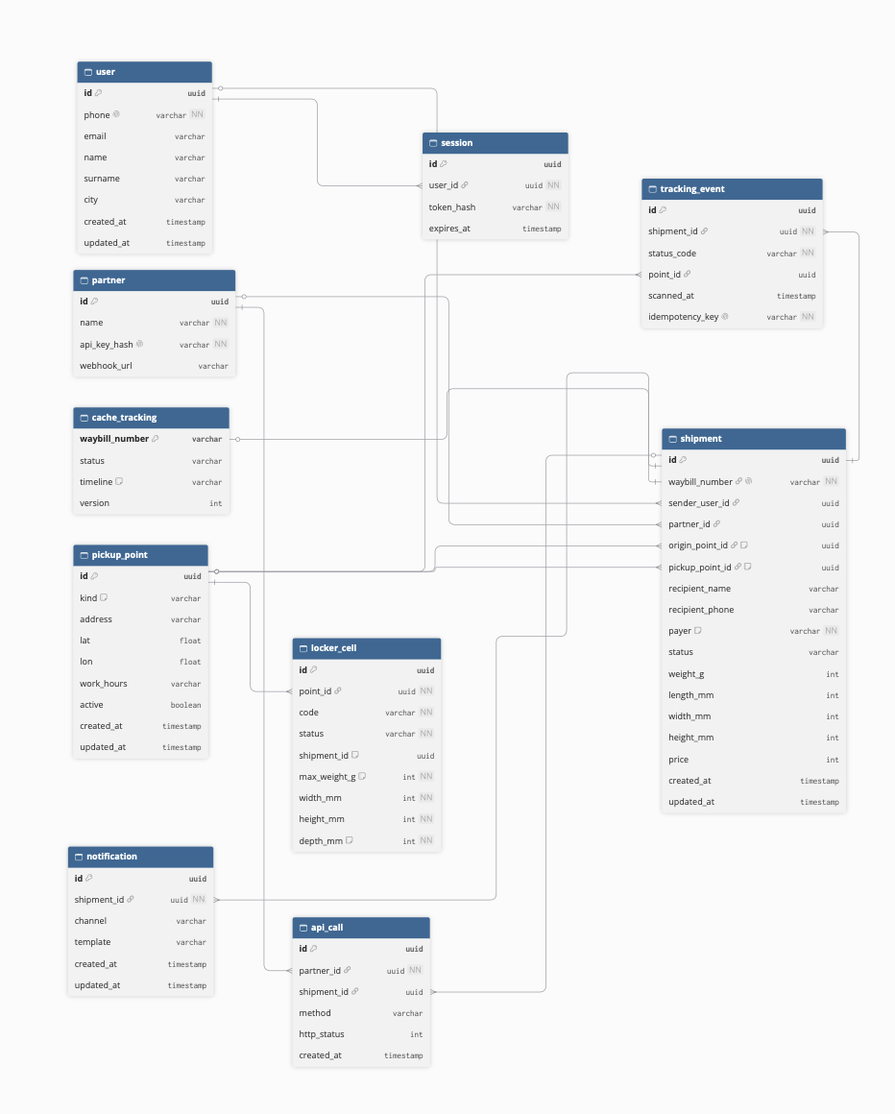
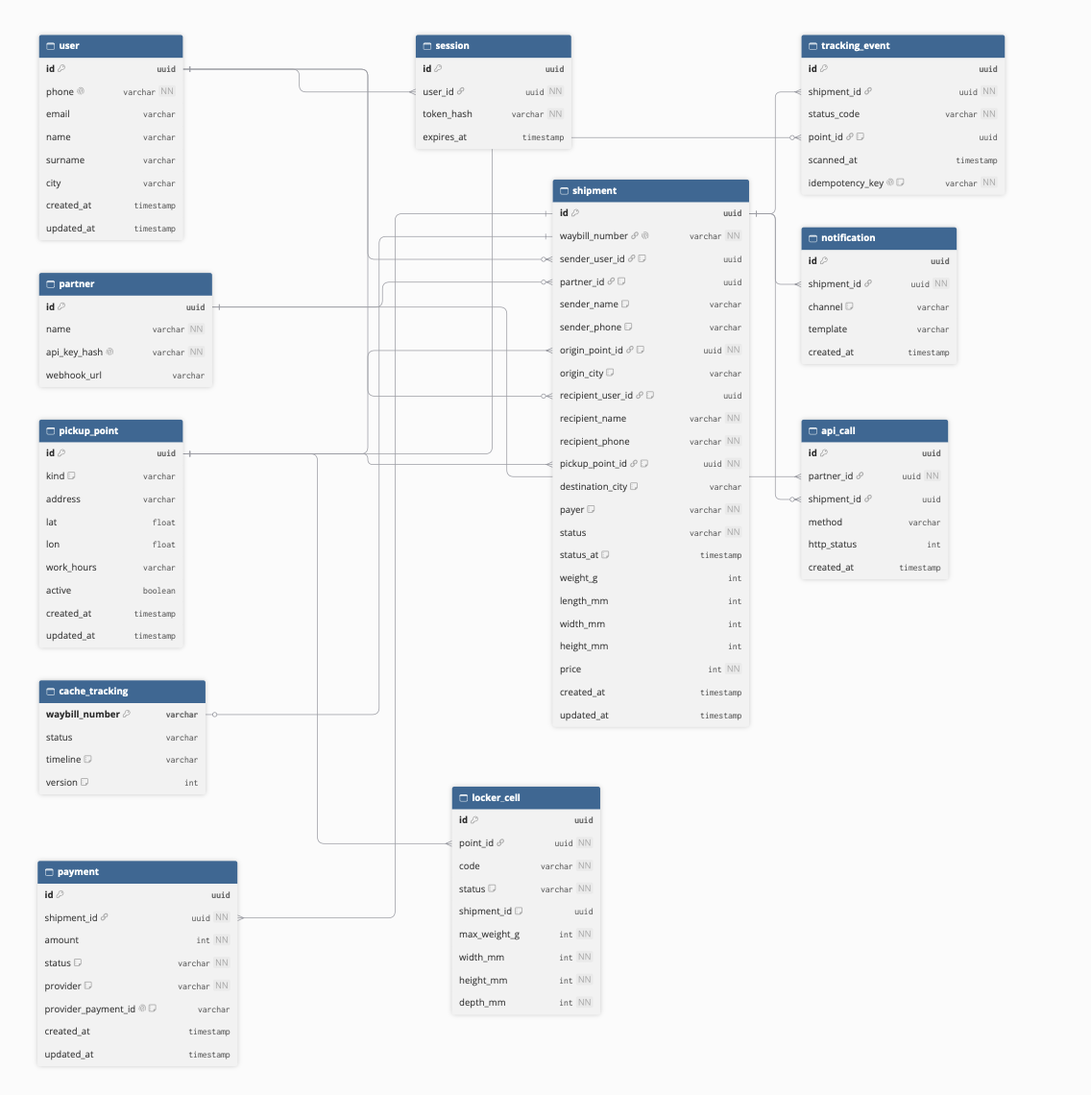
updated task 7

diff --git a/README.md b/README.md
@@ -10,7 +10,8 @@
 4. [Локальная балансировка нагрузки](#глава-4-локальная-балансировка-нагрузки)  
 5. [Логическая схема БД](#глава-5-логическая-схема-бд)  
 6. [Физическая схема БД](#глава-6-физическая-схема-БД-и-инфраструктура-хранения)  
-7. [Источники](#источники)  
+7. [Алгоритмы](#глава-7-алгоритмы)  
+8. [Источники](#источники)  
 
 ---
 
@@ -177,7 +178,7 @@
 - **Выгрузка справочника ПВЗ (0,20):** более 200 тыс. магазинов-партнёров [4] раз в сутки скачивают список ПВЗ. `200 000 / 1 000 000 = 0,20`.
 - **Добавление и изменение ПВЗ (0,0003):** *Допущение:* карточка точки (телефон, режим) обновляется в среднем раз в месяц. `8 800 × 12 / 365 = 289` правок в сутки, в таблице округлено до 300, то есть 0,0003 млн.
 
-**Про две строки с маленьким RPS.** Добавление ПВЗ даёт меньше 0,01 RPS и на выбор железа не влияет, но строку нельзя убирать: справочник ПВЗ читают все остальные контуры (карта, оформление, выгрузка партнёрам, маршрутизация посылок), поэтому запись в него должна быть строго консистентной и обязана сбрасывать кеши карты и партнёрских выгрузок. То же с ячейками: суммарно телеметрия и чтения дают `2,53 + 0,40 = 2,93` млн запросов в сутки и `35 + 18 = 53` RPS в пике, и это отдельное быстрое хранилище состояния, а не основная СУБД.
+**Про две строки с маленьким RPS.** Добавление ПВЗ даёт меньше 0,01 RPS и на выбор железа не влияет, но строку нельзя убирать: справочник ПВЗ читают все остальные контуры (карта, оформление, выгрузка партнёрам, маршрутизация посылок), поэтому запись в него должна быть строго консистентной и обязана сбрасывать кеши карты и партнёрских выгрузок. То же с ячейками: `2,53 + 0,40 = 2,93` млн запросов в сутки и `35 + 18 = 53` RPS в пике. Таблица — десятки мегабайт и обновляется в одной транзакции с накладной (глава 6).
 
 ### 2.4. Хранение данных
 | Тип данных | шт./мес | Размер записи | ГБ/мес | Срок хранения |
@@ -219,7 +220,7 @@
 Сырые данные: 139 ГБ/мес.  
 *Допущение ×1,6:* вторичные индексы и WAL примерно +60% к сырому объёму. Отдельного замера доли индексов нет. `139 × 1,6 = 222 ГБ/мес`.  
 Три копии — мастер и две реплики, как на схеме главы 4: `222 × 3 = 666 ГБ/мес ≈ 0,67 ТБ/мес`.  
-За горизонт хранения структурные данные: `0,67 × 36 ≈ 24 ТБ` и `0,67 × 60 ≈ 40 ТБ`, отсюда вилка **24–40 ТБ**. Фотофиксация хранится в объектном хранилище (S3) и не нагружает основную СУБД.
+Верхняя оценка, если хранить весь поток 36–60 месяцев в трёх копиях: `0,67 × 36 ≈ 24 ТБ` … `0,67 × 60 ≈ 40 ТБ`. По таблицам главы 6 один PostgreSQL — **5,5 ТБ**, три копии — **16,5 ТБ**. Фото в S3 в эту сумму не входят.
 
 **Средний размер хранилища на пользователя:** `139 ГБ/мес × 36 мес / 9,85 млн MAU = 508 КБ ≈ 0,5 МБ` структурных данных. Фото: `1 281 ГБ/мес × 12 мес / 9,85 млн ≈ 1,6 МБ`.
 
@@ -408,140 +409,229 @@ flowchart TD
 | `session` | Токены устройств. |
 | `partner` | Магазины: API-ключи, вебхуки. |
 | `pickup_point` | Справочник ПВЗ и постаматов. |
-| `locker_cell` | Ячейки постаматов: занятость, предел по весу и три габарита проёма. |
-| `shipment` | Накладная: стороны, ПВЗ сдачи и выдачи, кто платит, статус, вес и габариты, тариф. |
-| `tracking_event` | События перемещения посылки. |
+| `locker_cell` | Ячейка постамата: `free`, `reserved`, `occupied`, предел по весу и три габарита. |
+| `shipment` | Накладная: кто отправил и кто получает, пункт сдачи и пункт выдачи, города, кто платит, статус, вес, габариты, тариф. |
+| `payment` | Оплата: сумма, статус, провайдер, `provider_payment_id`. |
+| `tracking_event` | Событие перемещения. Точка скана — пункт или склад. |
 | `notification` | Журнал push/SMS. |
 | `api_call` | Журнал вызовов партнёрского API. |
-| `cache_tracking` | Готовый JSON трекинга для публичной страницы. |
+| `cache_tracking` | Готовая лента по номеру накладной. Поле `version`, чтобы два обновления не затёрли друг друга. |
+| `scan_buffer` | Входящий буфер скана до записи в `tracking_event`. |
+| `webhook_buffer` | Исходящий буфер вебхука до подтверждения магазином. |
+| `photo` | Файл фотофиксации приёма или выдачи. |
 
-### 5.3. Характеристики нагрузки и распределение данных
+На картинке выше основные таблицы. Очереди и файлы:
 
-Ниже приведены расчетные метрики, обосновывающие выбор типов хранения и стратегий шардирования. QPS рассчитаны исходя из пиковых значений главы 2.
+```mermaid
+flowchart LR
+    S["shipment"]
+    SB["scan_buffer<br/>idempotency_key<br/>waybill_number<br/>status_code<br/>point_id<br/>scanned_at"]
+    WB["webhook_buffer<br/>partner_id<br/>shipment_id<br/>event_code<br/>payload<br/>attempts"]
+    PH["photo<br/>shipment_id<br/>kind<br/>object_key<br/>size_bytes"]
+    PAY["payment<br/>shipment_id<br/>amount<br/>status<br/>provider<br/>provider_payment_id<br/>created_at"]
 
+    SB -->|waybill_number| S
+    WB -->|shipment_id| S
+    PH -->|shipment_id| S
+    PAY -->|shipment_id| S
+```
+
+Пункт сдачи и пункт выдачи в накладной обязательны. Скан на складе, которого нет в справочнике пунктов, пишется с пустым `point_id`.
+
+### 5.3. Объём, QPS, консистентность, ключи
+
+Объём — за весь срок хранения. Очередь скана и очередь вебхука живут сутки. QPS — пик именно этой таблицы, не весь метод из таблицы 2.3.
+
+| Сущность | Строк | Байт строки | Объём | R / W | Консистентность | Ключ |
+| :--- | ---: | ---: | ---: | ---: | :--- | :--- |
+| `user` | 18 млн | 0,5 КБ | 9 ГБ | 62 / <1 | строгая | `phone` |
+| `session` | 1,35 млн | 0,3 КБ | 0,4 ГБ | 300 / 124 | ключ есть или его нет | токен |
+| `partner` | 200 тыс. | 1 КБ | 0,2 ГБ | <1 / <0,1 | строгая | `api_key_hash` |
+| `pickup_point` | 8 800 | 2 КБ | 0,02 ГБ | <1 / <0,1 | строгая | `id`, выборка по прямоугольнику карты |
+| `locker_cell` | 176 тыс. | 0,2 КБ | 0,04 ГБ | 18 / 35 | строгая: строка ячейки блокируется вместе с накладной | `point_id` |
+| `shipment` | 615 млн | 4 КБ | 2 460 ГБ | 62 / 267 | строгая | `recipient_phone`, `waybill_number`, `sender_user_id`, `recipient_user_id` |
+| `payment` | 91 млн | 0,2 КБ | 18 ГБ | — / 5 | строгая, повтор оплаты с тем же номером шлюза не создаёт вторую строку | `shipment_id`, `provider_payment_id` |
+| `tracking_event` | 5,46 млрд | 0,4 КБ | 2 183 ГБ | 3 / 234 | повтор скана не создаёт второе событие | `shipment_id` |
+| `notification` | 450 млн | 0,5 КБ | 225 ГБ | ~0 / 70 | повтор не создаёт вторую запись | `shipment_id` |
+| `api_call` | 380 млн | 0,25 КБ | 95 ГБ | — / 146 | только добавление | `partner_id`, `created_at` |
+| `cache_tracking` | ~10 млн | 5 КБ | 50 ГБ | 124 / 234 | лента может отстать, пока её собирают заново | `waybill_number` |
+| `scan_buffer` | 5,1 млн | 0,4 КБ | 2 ГБ | 234 / 234 | повтор с тем же ключом не обрабатывается второй раз | `idempotency_key` |
+| `webhook_buffer` | 1,4 млн | 0,5 КБ | 0,7 ГБ | 64 / 64 | повторная отправка допустима | `partner_id`, `shipment_id` |
+| `photo` | 61 млн | 250 КБ | 15,3 ТБ | — / 8 | файл доступен после успешной загрузки | `shipment_id`, `kind` |
+
+Откуда QPS, если это не прямой пик строки таблицы 2.3:
+
+- `user` 62: `1,35 млн / 86 400 × 3,96`.
+- `session` 300 / 124: чтение `186 + 86 + 18 + 14 = 304`; запись — старт сессии, 124.
+- `shipment` 62 / 267: список `186 / 3 = 62`; запись — 234 смены статуса и `14 + 19` созданий. Карточку по номеру забирает `cache_tracking`.
+- `tracking_event` 3 / 234: *допущение*, промах кэша `62 × 0,05`. Запись — сканы, 234.
+- `cache_tracking` 124 / 234: чтение `186 × 2 / 3`. Запись делает фоновая задача из `scan_buffer`, не приём скана на терминале.
+- `payment` 5: пик оформления 14, в базу пишутся два шага из шести — сессия и подтверждение. `14 × 2 / 6 ≈ 5`. Строк: `50,5 тыс./сут × 30 × 60 = 91 млн`, 0,2 КБ — допущение. Срок как у накладной, 60 месяцев.
+- `scan_buffer` 234 и `webhook_buffer` 64 — пики приёма сканов и исходящих вебхуков. Чтение равно записи: фоновая задача забирает строку в том же темпе.
+- `photo` 8 — пик загрузки из раздела 2.5.
+- `api_call` 146: `60 + 64 + 19 + 3`.
+
+По ключам нагрузка ровная. Новых накладных 337 тыс. в сутки, у телефона одна-две посылки в пути (раздел 1.4). Скан и лента относятся к своей накладной, 15 событий на посылку. Постамат шлёт один отчёт в минуту на точку.
+
+Сумма диска — в разделе 6.6. `scan_buffer`: `337 тыс. × 15 = 5,1 млн` строк за сутки. `webhook_buffer`: `276 тыс. × 5 = 1,4 млн`. Размер строки вебхука 0,5 КБ — допущение.
 
 ---
 
 ## Глава 6. Физическая схема БД и инфраструктура хранения
 
-### 6.1. Схема таблиц и связей
+### 6.1. Схема размещения
+
+Структурные таблицы — один PostgreSQL. В памяти должно держаться 81 ГБ при 128 ГБ RAM, на диске 5,5 ТБ при диске 8 ТБ. Пик записи `234 + 234 + 14 + 19 + 70 ≈ 600` строк/с. Самый большой индекс, по которому ищут постоянно, — телефон получателя и дата, 22 ГБ. Запас: `128 − 81 = 47 ГБ` памяти и `8 − 5,5 = 2,5 ТБ` диска. Пока этот индекс влезает в память одного сервера, таблицу по серверам не делим.
+
+Структуру таблиц меняем на копии и потом переключаемся на неё. Индексы старше 6 месяцев лежат на обычных дисках: их почти не читают.
+
+Поля — схема 5.1. Месячная часть `tracking_event` лежит на том же сервере.
 
 ```mermaid
-flowchart TD
-    subgraph PG [PostgreSQL OLTP]
-        U["user<br/>PK: id<br/>IDX: phone<br/>Shard: hash"]
-        P["partner<br/>PK: id<br/>IDX: api_key<br/>Shard: hash"]
-        PP["pickup_point<br/>PK: id<br/>IDX: lat, lon<br/>Shard: hash"]
-        LC["locker_cell<br/>PK: id<br/>IDX: point_id<br/>Shard: point_id"]
-        S["shipment<br/>PK: id<br/>IDX: waybill<br/>Shard: hash<br/>Part: created_at"]
-        TE["tracking_event<br/>PK: id<br/>IDX: ship_id, scanned_at<br/>Shard: ship_id<br/>Part: date"]
-        N["notification<br/>PK: id<br/>IDX: ship_id<br/>Shard: ship_id"]
+flowchart LR
+    subgraph PG ["PostgreSQL, Москва, основной"]
+        U["user<br/>уникальный phone"]
+        S["shipment<br/>уникальный номер<br/>телефон получателя + дата"]
+        LC["locker_cell<br/>по пункту"]
+        TE["tracking_event<br/>по месяцам<br/>уникальный ключ скана и время"]
+        PAY["payment<br/>уникальный номер оплаты"]
+        SB["scan_buffer<br/>по суткам<br/>уникальный ключ скана и дата скана"]
     end
 
-    subgraph RD [Redis Cluster]
-        SE["session<br/>PK: id<br/>TTL: expires_at"]
-        CT["cache_tracking<br/>PK: waybill<br/>JSON: timeline"]
-    end
+    U --> S
+    S --> TE
+    S --> PAY
+    S --> LC
+    S --> SB
 
-    subgraph CH [ClickHouse OLAP]
-        AC["api_call<br/>PK: id<br/>Sort: partner_id, created_at"]
-    end
+    SYN["копия без задержки, Москва"]
+    GEO["копия с задержкой, Новосибирск"]
+    KZ["PostgreSQL, Алматы<br/>данные Казахстана"]
+    RD["Redis<br/>сессия и лента"]
+    S3["S3<br/>фото"]
 
-    PG_R["PostgreSQL Replicas"]
-    
-    PG -->|Sync Replication| PG_R
-    PG -.->|Async Cache Update| RD
-    PG -.->|Async Log Insert| CH
+    PG -->|сразу| SYN
+    PG -->|журнал| GEO
+    PG -.-> RD
+    S -.-> S3
 ```
 
-### 6.2. Описание таблиц, выбор СУБД и обоснование метрик
+### 6.2. Выбор СУБД
 
-Все значения QPS и размеров выведены из пиковых нагрузок таблицы 2.3 с учетом коэффициентов пика (K=3.96 для пользователей, K=4.0 для операций, K=6.0 для API) и доли промахов кэша. 
+Ячейка, накладная и событие сохраняются вместе. Искать нужно по телефону, номеру накладной и номеру посылки. Для этого берём PostgreSQL: несколько индексов, в том числе только по заполненным строкам, деление больших таблиц по времени и копия в другом городе. Журнал API, 95 ГБ, лежит там же.
 
-| Сущность | СУБД | Размер | Нагрузка (R / W QPS) | Консистентность | Индексы и Денормализация | Шардирование, резервирование и обоснование (ссылка на Гл. 2) |
-| :--- | :--- | :---: | :---: | :--- | :--- | :--- |
-| **user** | PostgreSQL | 0.5 КБ | 150 / 20 | Строгая | **Индекс:** btree по `phone`.<br>**Денорм.:** нет. | **Шард:** `hash(id)`. **Резерв:** 1 мастер + 2 реплики.<br>*Обоснование:* R: ~10% DAU запрашивают профиль. W: 1-2% DAU (регистрации). |
-| **session** | Redis Cluster | 0.3 КБ | 400 / 50 | Строгая | **Индекс:** встроенный хэш-ключ.<br>**Денорм.:** нет. | **Шард:** встроенный Redis. **Резерв:** Master + Replica. TTL.<br>*Обоснование:* R: валидация каждого API-запроса. W: создание сессии при входе. |
-| **partner** | PostgreSQL | 1.0 КБ | 30 / 1 | Строгая | **Индекс:** btree по `api_key_hash`.<br>**Денорм.:** нет. | **Шард:** `hash(id)`. **Резерв:** 1 мастер + 2 реплики.<br>*Обоснование:* R: только промахи кэша Redis. W: регистрация партнеров (крайне редко). |
-| **pickup_point** | PostgreSQL | 2.0 КБ | 200 / <1 | Строгая | **Индекс:** gist по `lat/lon` (PostGIS).<br>**Денорм.:** нет. | **Шард:** `hash(id)`. **Резерв:** 1 мастер + 2 реплики.<br>*Обоснование:* R: пики карты (86) + проверка ячеек (18). W: админ. правки (<0.1). |
-| **locker_cell** | PostgreSQL | 0.2 КБ | 50 / 40 | Строгая, атомарная | **Индекс:** btree по `point_id`.<br>**Денорм.:** нет. | **Шард:** `hash(point_id)` (локальность данных постамата).<br>*Обоснование:* R/W: проверка и обновление статуса. Пик телеметрии (35) + бронирование. |
-| **shipment** | PostgreSQL | 4.0 КБ | 250 / 30 | Строгая | **Индекс:** btree по `waybill_number`.<br>**Денорм.:** дублирование `status` и контактов получателя для вывода списков без тяжелых JOIN. | **Шард:** `hash(waybill_number)`. **Партиции:** по `created_at`. **Резерв:** 1 мастер + 2 синхронные реплики.<br>*Обоснование:* R: просмотр карточки (186). W: создание UI (14) + API (19). |
-| **tracking_event** | PostgreSQL (партицированная) | 0.4 КБ | 300 / 250 | Идемпотентная, append-only | **Индексы:** составной btree (`shipment_id`, `scanned_at`), уникальный по `idempotency_key`.<br>**Денорм.:** нет. | **Шард:** `hash(shipment_id)`. **Партиции:** по дням.<br>*Обоснование:* W: прием сканов ТСД (234). R: построение ленты (промахи кэша `cache_tracking`). |
-| **notification** | PostgreSQL | 0.5 КБ | 10 / 70 | Идемпотентная | **Индекс:** btree по `shipment_id`.<br>**Денорм.:** нет. | **Шард:** `hash(shipment_id)`.<br>*Обоснование:* W: отправка Push/SMS (70). R: только административная отладка. |
-| **api_call** | ClickHouse | 0.25 КБ | 20 / 60 | Идемпотентная, append-only | **Индекс:** первичный ключ (сортировка) по (`partner_id`, `created_at`).<br>**Денорм.:** нет. | **Шард:** Distributed таблица. **Резерв:** ReplicatedMergeTree.<br>*Обоснование:* W: логирование вызовов API (пики опроса и вебхуков ~60-64). R: аналитика. |
-| **cache_tracking** | Redis Cluster | 5.0 КБ | 200 / 250 | Согласованная в конечном счете | **Индекс:** встроенный хэш-ключ.<br>**Денорм.:** готовый JSON ленты для исключения сборки данных на лету. | **Шард:** встроенный Redis. **Резерв:** Master + Replica.<br>*Обоснование:* R: публичный трекинг (186). W: асинхронное обновление при каждом событии в `tracking_event`. |
+Сессия и готовая лента — Redis, 50 ГБ на сервере с 96 ГБ памяти. Фото — S3, 15,3 ТБ. Телефон кладёт файл по прямой ссылке, серверы приложений файл не принимают.
 
-**Общая формула расчета QPS:**  
-`Пиковый QPS = (Суточный объем операций из табл. 2.3 / 86 400) × Коэффициент пика (K) × Коэффициент нагрузки на конкретную таблицу (доля запросов, доходящих до БД после кэша)`.
+### 6.3. Таблицы
 
-**Обоснование размеров записей:**  
-Рассчитаны как сумма размеров типов данных полей (например, `uuid` = 16 байт, `varchar` ~20-50 байт, `timestamp` = 8 байт) с учетом накладных расходов СУБД.
+QPS — таблица 5.3. Таблицы по серверам не делятся. У PostgreSQL копия без задержки в Москве и копия с задержкой в Новосибирске. Алматы — отдельная база для граждан Казахстана (раздел 6.5).
 
+| Таблица | СУБД | Индекс | Копия |
+| :--- | :--- | :--- | :--- |
+| `user` | PostgreSQL | уникальный `phone`, индекс `email` | Москва и Новосибирск |
+| `partner` | PostgreSQL | уникальный `api_key_hash` | Москва и Новосибирск |
+| `pickup_point` | PostgreSQL | координаты `lat, lon` | Москва и Новосибирск |
+| `locker_cell` | PostgreSQL | `point_id`, отдельно свободные ячейки | Москва и Новосибирск |
+| `shipment` | PostgreSQL | уникальный номер; телефон получателя и дата; отправитель и получатель из `user`, только заполненные | Москва и Новосибирск |
+| `tracking_event` | PostgreSQL | посылка и время; уникальные ключ скана и время | Москва и Новосибирск |
+| `payment` | PostgreSQL | уникальный номер оплаты, `shipment_id` | Москва и Новосибирск |
+| `notification` | PostgreSQL | `shipment_id` | Москва и Новосибирск |
+| `api_call` | PostgreSQL | партнёр и время | Москва и Новосибирск |
+| `scan_buffer` | PostgreSQL | по суткам, уникальные ключ скана и дата скана | Москва и Новосибирск |
+| `webhook_buffer` | PostgreSQL | партнёр и посылка | Москва и Новосибирск |
+| `session`, `cache_tracking` | Redis | токен и номер накладной | вторая копия |
+| `photo` | S3 | `shipment_id/kind` | старые версии файла |
 
-### 6.3. Клиентские библиотеки и интеграции
-- PostgreSQL: pgx (Go) или asyncpg (Python) с обязательным использованием prepared statements для снижения нагрузки на парсер запросов.
-- Redis: go-redis или redis-py с включенным pipeline для отправки команд батчами и уменьшения сетевых задержек (RTT).
-- ClickHouse: clickhouse-go для эффективной пакетной вставки логов вызовов API.
-- S3 (файловое хранилище). Загрузка фотофиксации идет напрямую с клиента по presigned URL, минуя серверы приложений.
+### 6.4. Денормализация накладной
 
-### 6.4. Балансировка запросов и мультиплексирование подключений
-Между микросервисами и кластером PostgreSQL обязательно используется PgBouncer в режиме transaction pooling. Это предотвращает исчерпание лимита max_connections и позволяет тысячам воркеров приложений мультиплексировать запросы через несколько сотен физических соединений к базе. 
+В `shipment` уже заложены 4 КБ из раздела 2.4, отдельные колонки объём не увеличивают. Чтобы список посылок читался одной таблицей, туда скопированы:
 
-### 6.5. Схема резервного копирования
+- `status`, `status_at` — время последнего события;
+- `origin_city`, `destination_city` — города на момент создания;
+- `sender_name`, `sender_phone`, `recipient_name`, `recipient_phone` — имена и телефоны на момент оформления;
+- `recipient_user_id` — если получатель есть в `user`, по нему строится лента «Мои посылки».
 
-- PostgreSQL: непрерывное архивирование в S3. Это позволяет восстанавливать базу и откатывать базу на любой момент времени за последние 30 дней.
-- Redis: периодические снапшоты раз в час.
-- ClickHouse: утилита clickhouse-backup для регулярной выгрузки метаданных и старых партиций в S3.
-- S3: включено версионирование объектов для защиты от случайного удаления и настройка для автоматического перевода данных в холодное хранилище с последующим удалением через 12 месяцев.
-- Целевые показатели: RPO (допустимая потеря данных) не более 1 минуты, RTO (время восстановления) до 15 минут благодаря автоматическому переключению мастера через Patroni.
+Откуда и куда везут — `origin_point_id` и `pickup_point_id`. Оба поля заполнены всегда: посылку сдают в пункт и забирают из пункта.
 
+Список `WHERE recipient_phone = $1 ORDER BY created_at DESC` берёт эти поля напрямую. `status` меняется вместе со вставкой `tracking_event`. Если из-за задержки сети пришёл более ранний скан, статус назад не откатывается, событие в историю всё равно пишется. Лента из 15 событий лежит в `cache_tracking`.
 
-### 6.6. Расчет объема сырых данных таблиц (без индексов)
+### 6.5. Копии базы по городам
 
-Объем рассчитан как: `(Количество записей в месяц × Срок хранения в месяцах × Размер записи)`. 
+Запись идёт в основной сервер в Москве. Рядом вторая копия: она подтверждает запись до ответа клиенту (пара 2N из главы 4). Копия в Новосибирске отстаёт на доли секунды, у неё те же 128 ГБ памяти. УФО, СФО и ДФО — 25% населения [10]. Журнал изменений идёт примерно 5 МБ/с.
 
-| Таблица | Записей в мес. | Срок хран. | Размер записи | Итоговый объем (сырые данные) | Обоснование (ссылка на главу) |
-| :--- | :---: | :---: | :---: | :---: | :--- |
-| **tracking_event** | 151,6 млн | 36 мес | 0,40 КБ | **~2 185 ГБ (2,18 ТБ)** | Гл. 2.4: 15 сканов × 337 тыс. посылок × 30 дней. Срок 3 года (исковая давность). |
-| **shipment** | 10,2 млн | 60 мес | 4,00 КБ | **~2 460 ГБ (2,46 ТБ)** | Гл. 2.4: 123 млн / 12 мес. Срок 5 лет (первичный учетный документ). |
-| **api_call** | 126,6 млн | 3 мес | 0,25 КБ | **~95 ГБ** | Гл. 2.4: Сумма партнерских запросов. Срок 3 мес (окно разбора инцидентов). |
-| **geo_point** | 86,4 млн | 3 мес | 0,06 КБ | **~15,6 ГБ** | Гл. 2.4: Телеметрия курьеров. Срок 3 мес (быстро устаревают). |
-| **user** | ~0,5 млн (новых) | 60 мес | 0,50 КБ | **~15 ГБ** | Гл. 1.4: База 18 млн человек. Растет медленно, основной объем статичен. |
-| **partner** | ~5 тыс. (новых) | 60 мес | 1,00 КБ | **~0,3 ГБ** | Гл. 2.3: Более 200 тыс. магазинов. Объем ничтожно мал. |
-| **pickup_point** | ~300 (изменений) | 60 мес | 2,00 КБ | **~0,02 ГБ** | Гл. 2.3: Всего 8800 точек в сети. Справочник занимает копейки. |
-| **locker_cell** | ~176 тыс. (всего) | 60 мес | 0,20 КБ | **~0,04 ГБ** | Допущение: 8800 точек × 20 ячеек. Статичный справочник состояний. |
-| **notification** | 1,25 млн | 12 мес | 0,50 КБ | **~7,5 ГБ** | Гл. 2.3: Push/SMS. Срок 12 мес (разбор жалоб на недоставку). |
-| **session** (Redis) | ~2 млн (активных) | 30 дней | 0,30 КБ | **~0,6 ГБ** | Гл. 1.4: ~20% от MAU имеют активные сессии. Очищается по TTL. |
-| **cache_tracking** (Redis)| ~10 млн (активных + 30 дн) | 30 дней | 5,00 КБ | **~50 ГБ** | Гл. 1.4: 1,68 млн посылок в пути + архив за месяц. |
-| **Фото** (S3) | 5,1 млн | 12 мес | 250 КБ | **~15 372 ГБ (15,3 ТБ)**| Гл. 2.4: 25% посылок × 2 кадра. Хранится отдельно от СУБД. |
+Свой список первые ~10 секунд после создания читается в Москве, потом можно с новосибирской копии. Карточка по номеру берётся из готовой ленты. Бронь ячейки и оплата читают только Москву.
 
-**Итоговый объем сырых данных в реляционных СУБД (PostgreSQL + ClickHouse):**  
-`2 185 + 2 460 + 95 + 15,6 + 15 + 0,3 + 0,02 + 0,04 + 7,5` ≈ **4 778 ГБ (~4,78 ТБ)** за весь срок хранения.
+В Алматы отдельный PostgreSQL той же схемы: данные граждан РК остаются в Казахстане [8, 9]. Если отдать туда все 3% международных отправлений [3], накладных будет `0,03 × 2 460 ГБ ≈ 74 ГБ`.
 
-**Итоговый объем в in-memory (Redis):**  
-`~50,6 ГБ` (включая кэш трекинга и активные сессии).
+### 6.6. Объём данных
 
-**Итоговый объем в объектном хранилище (S3):**  
-`~15,3 ТБ` (только фотофиксация).
+Число строк — таблица 5.3. Здесь только то, что занимает диск.
 
-### 6.9. Расчет объема индексов
+| Данные | Объём | Как посчитано |
+| :--- | ---: | :--- |
+| `tracking_event`, 36 мес | 2 183 ГБ | 151,6 млн/мес × 36 × 0,40 КБ |
+| `shipment`, 60 мес | 2 460 ГБ | 10,25 млн/мес × 60 × 4 КБ |
+| `notification`, 12 мес | 225 ГБ | 1,25 млн/сут × 360 × 0,50 КБ |
+| `api_call`, 3 мес | 95 ГБ | 126,6 млн/мес × 3 × 0,25 КБ |
+| `payment`, пользователи, справочники, буферы | ≈ 30 ГБ | 18 + 9 + 2 + 0,7 и мелочь из 5.3 |
+| **PostgreSQL** | **≈ 4 990 ГБ** | |
+| Индексы, раздел 6.7 | ≈ 460 ГБ | |
+| **Экземпляр с индексами** | **5,5 ТБ** | три копии — 16,5 ТБ |
+| Redis | 50 ГБ | `cache_tracking` |
+| Фото в S3 | 15,3 ТБ | в 5,5 ТБ не входят |
 
-Объем индексов рассчитывается по формуле:  
-`Размер = (Количество строк за срок хранения) × (Размер ключа в байтах) × Коэффициент накладных расходов`.  
-Для B-tree индексов в PostgreSQL коэффициент накладных расходов принимается равным **1.5x**.
+### 6.7. Индексы
 
-| Таблица | Индекс | Кол-во строк (за срок хран.) | Размер ключа | Сырой объем | Объем (~1.5x) |
-| :--- | :--- | :---: | :---: | :---: | :---: |
-| **user** | `phone` (unique, btree) | 18 млн | 32 байта | 576 МБ | **~0.86 ГБ** |
-| **partner** | `api_key_hash` (unique, btree) | 200 тыс. | 64 байта | 12.8 МБ | **~0.02 ГБ** |
-| **pickup_point** | `lat, lon` (GIST, PostGIS) | 8 800 | ~32 байта | < 1 МБ | **< 0.01 ГБ** |
-| **locker_cell** | `point_id` (btree) | 176 тыс. | 16 байт (uuid) | 2.8 МБ | **~0.004 ГБ** |
-| **shipment** | `waybill_number` (unique, btree) | 612 млн | 32 байта | 19.6 ГБ | **~29.4 ГБ** |
-| **tracking_event** | `(shipment_id, scanned_at)` (составной btree) | 5.46 млрд | 24 байта (uuid + ts) | 131 ГБ | **~196 ГБ** |
-| **tracking_event** | `idempotency_key` (unique, btree) | 151.6 млн* | 36 байт | 5.4 ГБ | **~8.2 ГБ** |
-| **notification** | `shipment_id` (btree) | 15 млн | 16 байт (uuid) | 240 МБ | **~0.36 ГБ** |
-| **api_call** (ClickHouse) | Первичный ключ `(partner_id, created_at)` | 379.8 млн | 24 байта | 9.1 ГБ | **~1.1 ГБ** (разреженный) |
+Без индекса по телефону логин читает все 9 ГБ пользователей, список посылок получателя — все 2 460 ГБ накладных. При 62 запросах в секунду так делать нельзя.
 
+Размер индекса: `N × длина ключа × 1,5`. Телефон и номер накладной — 16 байт, идентификатор — 16, время — 8.
+
+| Индекс | Объём | Где лежит |
+| :--- | ---: | :--- |
+| `user.phone` + `email` | 1,3 ГБ | RAM |
+| `shipment.waybill_number` | 14,8 ГБ | RAM |
+| `shipment (recipient_phone, created_at)` | 22,1 ГБ | RAM |
+| `shipment (sender_user_id, created_at)`, 15% C2C [3] | 3,3 ГБ | RAM |
+| `tracking_event (shipment_id, scanned_at)`, 2 месяца | 11 ГБ | RAM. За 36 мес на диске 196 ГБ |
+| `tracking_event (idempotency_key, scanned_at)`, 2 месяца | 11 ГБ | RAM. За 36 мес на диске 197 ГБ |
+| уведомления и журнал API за срок хранения | 25 ГБ | диск |
+| `payment`, два индекса | 4 ГБ | `91 млн × 16 Б × 1,5 × 2` |
+
+`0,43 + 0,86 + 14,8 + 22,1 + 3,3 + 11 + 11 ≈ 64 ГБ` индексов, которые читаются постоянно. Индекс по `recipient_user_id` частичный: только строки, где получатель есть в `user`, тот же приём, что в разделе 6.2. Сколько таких получателей, в источниках нет, поэтому в эти 64 ГБ он не входит. Плюс активные накладные `1,68 млн × 4 КБ = 6,7 ГБ` и события за 5 суток `337 тыс. × 15 × 5 × 0,4 КБ = 10 ГБ`. В памяти нужно **81 ГБ**.
+
+На диске индексы `42 + 196 + 197 + 25 ≈ 460 ГБ`. Вместе со строками `4 990 + 460 ≈ 5 450 ГБ`.
+
+`tracking_event` поделён по времени скана. В уникальный ключ входит и время: иначе такой индекс на поделённой таблице не создать. Лента открывает один-два месяца по дате накладной. Месяц старше 36 удаляется целиком.
+
+### 6.8. Подключения и копии
+
+PgBouncer: много процессов приложения делят один пул соединений с базой. Библиотеки: `pgx`, `go-redis`, `aws-sdk-go`.
+
+Если сервер в Москве падает, запись переходит на соседнюю копию. Если падает вся площадка, поднимаем копию в Новосибирске: теряется только то, что не успело доехать (доли секунды при ~5 МБ/с), подъём до 15 минут. Журнал базы копируется в S3, восстановить можно любой момент за 30 суток. Redis сохраняется раз в час. Если ленты в нём нет, из базы её собирает один запрос, остальные ждут. У фото в S3 хранятся предыдущие версии, срок 12 месяцев.
+
+---
+
+## Глава 7. Алгоритмы
+
+### 7.1. Приём скана
+
+**Алгоритм.** Приём скана через очередь, повтор отсекается уникальным ключом.
+
+**Блок.** Приём сканов со сканеров и терминалов пунктов выдачи.
+
+**Задача.** Сканов в пике 234 в секунду, и терминал может прислать тот же пакет ещё раз, если не дождался ответа. В истории и в ленте событие должно быть одно. Ответ терминалу не должен ждать обновления ленты.
+
+**Вход и ограничения.** На входе номер накладной, код статуса, точка, время скана и `idempotency_key`. Ответ терминалу — до записи в Redis. Повтор с тем же ключом не создаёт второе событие.
+
+**Последовательность.**
+1. `INSERT` в `scan_buffer`. Конфликт по `idempotency_key` — ответ «уже принят», дальше ничего не пишем.
+2. Ответ терминалу. Терминал не ждёт Redis.
+3. Фоновая задача переносит строку в `tracking_event` и обновляет `shipment.status` одним сохранением. Если скан по смыслу раньше текущего статуса (пакет задержался в сети), статус в накладной не меняется, событие в историю пишется.
+4. Та же задача обновляет ленту в `cache_tracking`.
+
+**Структуры.** `scan_buffer` партиционирован по суткам. Старые сутки удаляются целиком, не по одной строке. Уникальный индекс — `(idempotency_key, дата скана)`: в ключ входит дата этих суток, не время целиком. `tracking_event` поделён по месяцу, уникальный индекс — `(idempotency_key, scanned_at)`. `cache_tracking` — лента в Redis по номеру накладной, с номером версии.
+
+**Что уже заложено в расчёт.** Пик 234 RPS — строка «приём сканов» таблицы 2.3. Объём буфера 5,1 млн строк и 2 ГБ — раздел 5.3. Индекс `(idempotency_key, scanned_at)` и партиция по `scanned_at` — разделы 6.3 и 6.7.
 
 ## Источники
 
